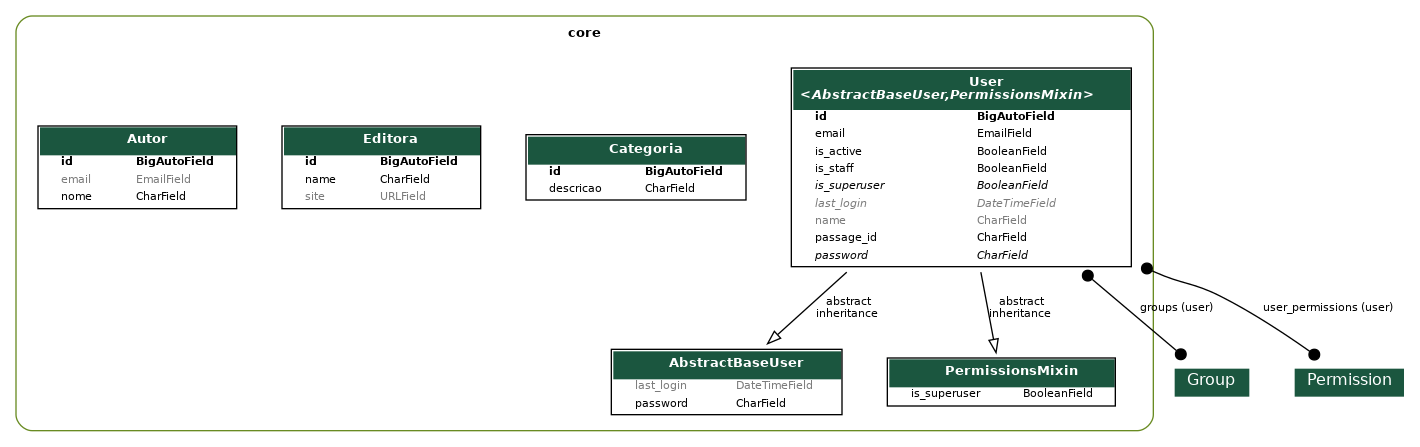
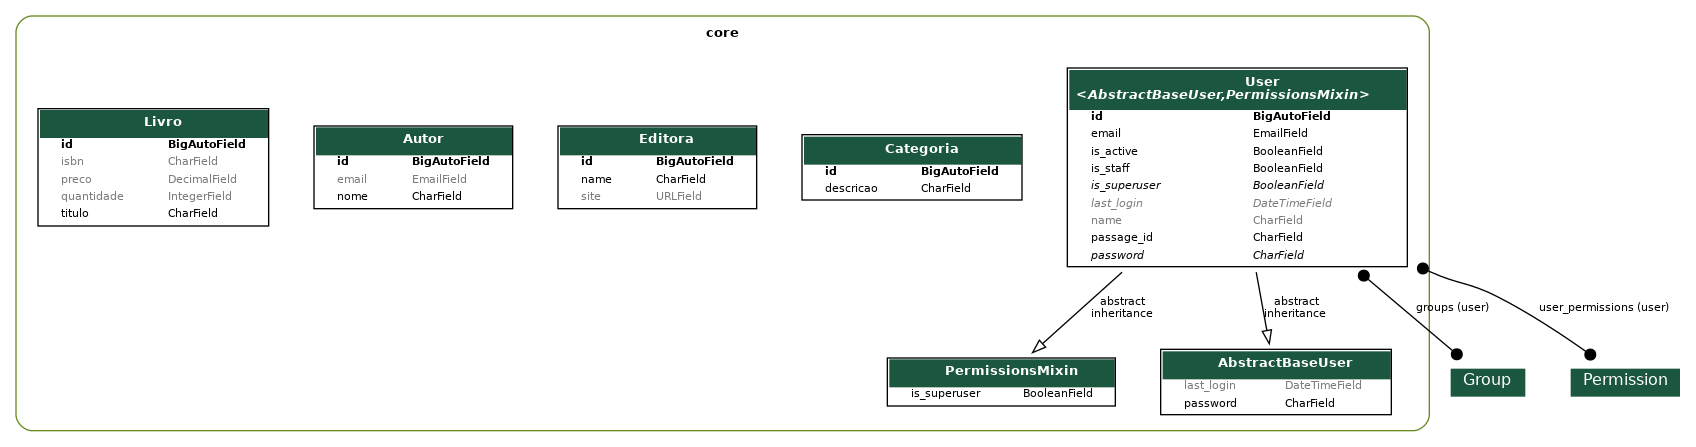
feat: criação da entidade para livro.

diff --git a/core/migrations/0009_livro.py b/core/migrations/0009_livro.py
@@ -1,0 +1,23 @@
+# Generated by Django 5.1.7 on 2025-05-09 17:52
+
+from django.db import migrations, models
+
+
+class Migration(migrations.Migration):
+
+    dependencies = [
+        ('core', '0008_autor'),
+    ]
+
+    operations = [
+        migrations.CreateModel(
+            name='Livro',
+            fields=[
+                ('id', models.BigAutoField(auto_created=True, primary_key=True, serialize=False, verbose_name='ID')),
+                ('titulo', models.CharField(max_length=255)),
+                ('isbn', models.CharField(blank=True, max_length=32, null=True)),
+                ('quantidade', models.IntegerField(blank=True, default=0, null=True)),
+                ('preco', models.DecimalField(blank=True, decimal_places=2, default=0, max_digits=7, null=True)),
+            ],
+        ),
+    ]

diff --git a/app/urls.py b/app/urls.py
@@ -1,5 +1,6 @@
 from django.contrib import admin
 from django.urls import include, path
+from core.views.livro import LivroViewSet
 from drf_spectacular.views import (
     SpectacularAPIView,
     SpectacularRedocView,
@@ -13,8 +14,10 @@ router = DefaultRouter()
 
 router.register(r'autores', AutorViewSet)
 router.register(r'categorias', CategoriaViewSet)
-router.register(r'usuarios', UserViewSet, basename='usuarios')
 router.register(r'editora', EditoraViewSet)
+router.register(r'usuarios', UserViewSet, basename='usuarios')
+router.register(r'livros', LivroViewSet)
+
 
 urlpatterns = [
     path('admin/', admin.site.urls),

diff --git a/core/models/livro.py b/core/models/livro.py
@@ -1,0 +1,10 @@
+from django.db import models
+
+class Livro(models.Model):
+    titulo = models.CharField(max_length=255)
+    isbn = models.CharField(max_length=32, null=True, blank=True)
+    quantidade = models.IntegerField(default=0,  null=True, blank=True)
+    preco = models.DecimalField(max_digits=7, decimal_places=2, default=0, null=True, blank=True)
+
+    def __str__(self):
+        return f"({self.id}) {self.titulo} ({self.quantidade})"

diff --git a/core/views/livro.py b/core/views/livro.py
@@ -1,0 +1,8 @@
+from rest_framework.viewsets import ModelViewSet
+
+from core.models import Livro
+from core.serializers import LivroSerializer
+
+class LivroViewSet(ModelViewSet):
+    queryset = Livro.objects.all()
+    serializer_class = LivroSerializer

diff --git a/core/serializers/livro.py b/core/serializers/livro.py
@@ -1,0 +1,7 @@
+from rest_framework.serializers import ModelSerializer
+from core.models import Livro
+
+class LivroSerializer(ModelSerializer):
+    class Meta:
+        model = Livro
+        fields = "__all__"

diff --git a/core/admin.py b/core/admin.py
@@ -55,3 +55,4 @@ admin.site.register(models.User, UserAdmin)
 admin.site.register(models.Categoria)
 admin.site.register(models.Editora)
 admin.site.register(models.Autor)
+admin.site.register(models.Livro)

diff --git a/core/serializers/__init__.py b/core/serializers/__init__.py
@@ -2,3 +2,4 @@ from .user import UserSerializer
 from .categoria import CategoriaSerializer
 from .editora import EditoraSerializer
 from .autor import AutorSerializer
+from .livro import LivroSerializer

diff --git a/core/views/__init__.py b/core/views/__init__.py
@@ -2,3 +2,4 @@ from .user import UserViewSet
 from .categoria import CategoriaViewSet
 from .editora import EditoraViewSet
 from .autor import AutorViewSet
+from .livro import LivroViewSet

diff --git a/core/models/__init__.py b/core/models/__init__.py
@@ -2,3 +2,4 @@ from .user import User
 from .categoria import Categoria
 from .editora import Editora
 from .autor import Autor
+from .livro import Livro
